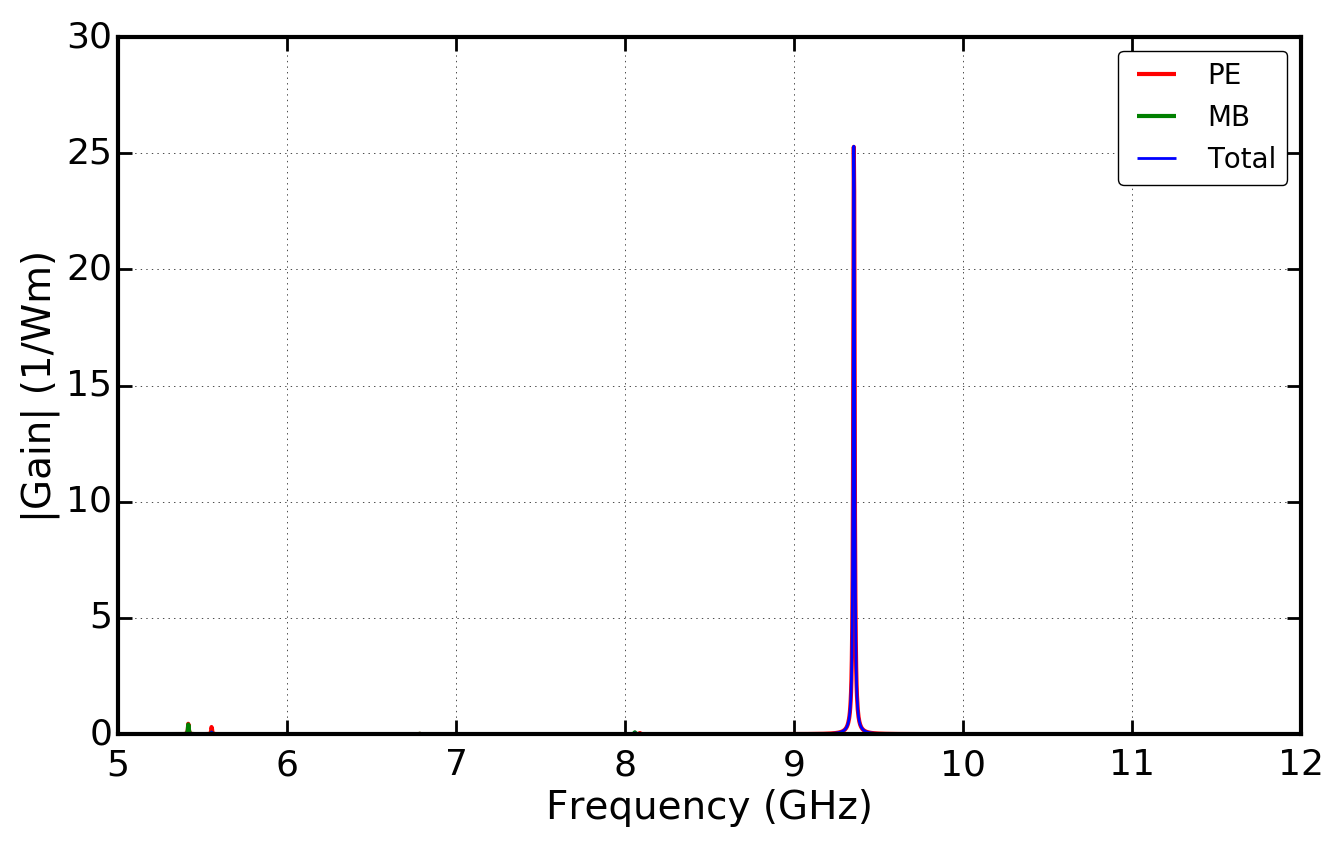
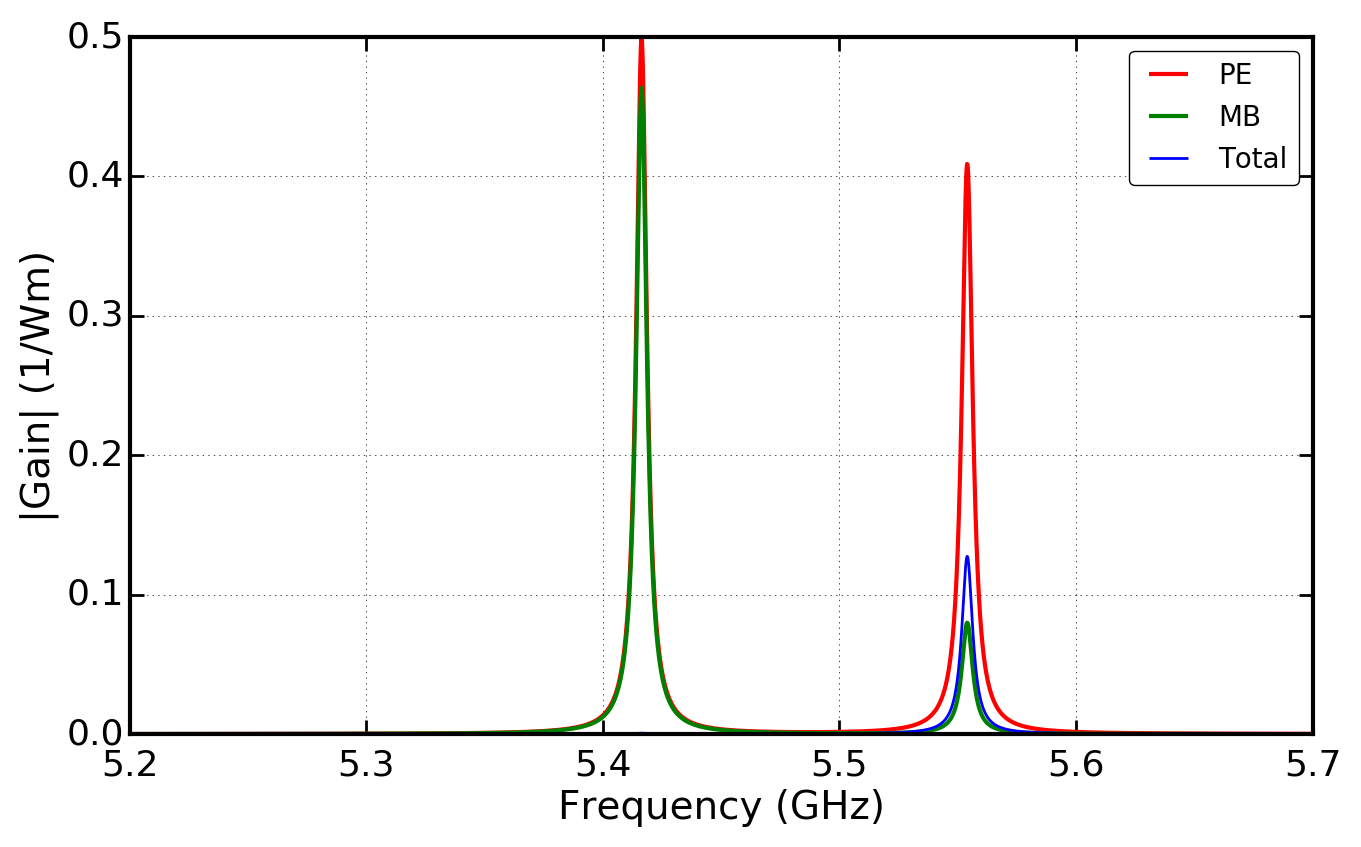
Improving lit examples.

diff --git a/backend/objects.py b/backend/objects.py
@@ -39,7 +39,8 @@ class Struct(object):
 
             inc_shape  (str): Shape of inclusions that have template mesh,
                 currently: 'circular', 'rectangular', 'slot', 'rib'
-                'rib_coated', 'onion'. Rectangular is default.
+                'slot_coated', 'rib_coated', 'pedestal', 'onion'. 
+                Rectangular is default.
 
             slab_a_x  (float): The horizontal diameter in nm of the slab
                 directly below the inclusion.
@@ -117,6 +118,7 @@ class Struct(object):
                  slab_a_x=None, slab_a_y=None, slab_b_x=None, slab_b_y=None,
                  coat_x=None, coat_y=None, inc_b_x=None, inc_b_y=None,
                  two_inc_sep=None, incs_y_offset=None,
+                 pillar_x=None, pillar_y=None,
                  inc_c_x=None, inc_d_x=None, inc_e_x=None, inc_f_x=None,
                  inc_g_x=None, inc_h_x=None, inc_i_x=None, inc_j_x=None,
                  inc_k_x=None, inc_l_x=None, inc_m_x=None, inc_n_x=None,
@@ -158,6 +160,8 @@ class Struct(object):
         self.slab_a_y = slab_a_y
         self.slab_b_x = slab_b_x
         self.slab_b_y = slab_b_y
+        self.pillar_x = pillar_x
+        self.pillar_y = pillar_y
         self.inc_c_x = inc_c_x
         self.inc_d_x = inc_d_x
         self.inc_e_x = inc_e_x
@@ -578,7 +582,7 @@ class Struct(object):
         self.p_tensor = p_tensor
         self.eta_tensor = eta_tensor
 
-        self.linear_element_shapes = ['rectangular', 'slot', 'slot_coated', 'rib', 'rib_coated']
+        self.linear_element_shapes = ['rectangular', 'slot', 'slot_coated', 'rib', 'rib_coated', 'pedestal']
         self.curvilinear_element_shapes = ['circular', 'onion']
 
 
@@ -761,51 +765,6 @@ class Struct(object):
                     geo = geo.replace('lc2 = lc/1;', "lc2 = lc/%f;" % self.lc2)
                     geo = geo.replace('lc3 = lc/1;', "lc3 = lc/%f;" % self.lc3)
 
-        elif self.inc_shape in ['onion']:
-            msh_template = 'onion'
-            self.nb_typ_el = 15
-            msh_name = 'onion_%(d)s_%(dy)s_%(a)s_%(b)s_%(c)s_%(d)s_%(e)s_%(f)s_%(g)s' % {
-            'd': dec_float_str(self.unitcell_x),
-            'dy': dec_float_str(self.unitcell_y),
-            'a': dec_float_str(self.inc_a_x),
-            'b': dec_float_str(self.inc_b_x),
-            'c': dec_float_str(self.inc_c_x),
-            'd': dec_float_str(self.inc_d_x),
-            'e': dec_float_str(self.inc_e_x),
-            'f': dec_float_str(self.inc_f_x),
-            'g': dec_float_str(self.inc_g_x)}
-            msh_name = msh_name + '_%(h)s_%(i)s_%(j)s_%(k)s_%(l)s_%(m)s_%(n)s_%(o)s' % {
-            'h': dec_float_str(self.inc_h_x),
-            'i': dec_float_str(self.inc_i_x),
-            'j': dec_float_str(self.inc_j_x),
-            'k': dec_float_str(self.inc_k_x),
-            'l': dec_float_str(self.inc_l_x),
-            'm': dec_float_str(self.inc_m_x),
-            'n': dec_float_str(self.inc_n_x),
-            'o': dec_float_str(self.inc_o_x)}
-            if not os.path.exists(msh_location + msh_name + '.mail') or self.force_mesh is True:
-                geo_tmp = open(msh_location + '%s_msh_template.geo' % msh_template, "r").read()
-                geo = geo_tmp.replace('d_in_nm = 100;', "d_in_nm = %f;" % self.unitcell_x)
-                geo = geo.replace('dy_in_nm = 50;', "dy_in_nm = %f;" % self.unitcell_y)
-                geo = geo.replace('a1 = 2;', "a1 = %f;" % self.inc_a_x)
-                geo = geo.replace('a2 = 2;', "a2 = %f;" % self.inc_b_x)
-                geo = geo.replace('a3 = 2;', "a3 = %f;" % self.inc_c_x)
-                geo = geo.replace('a4 = 2;', "a4 = %f;" % self.inc_d_x)
-                geo = geo.replace('a5 = 2;', "a5 = %f;" % self.inc_e_x)
-                geo = geo.replace('a6 = 2;', "a6 = %f;" % self.inc_f_x)
-                geo = geo.replace('a7 = 2;', "a7 = %f;" % self.inc_g_x)
-                geo = geo.replace('a8 = 2;', "a8 = %f;" % self.inc_h_x)
-                geo = geo.replace('a9 = 2;', "a9 = %f;" % self.inc_i_x)
-                geo = geo.replace('a10 = 2;', "a10 = %f;" % self.inc_j_x)
-                geo = geo.replace('a11 = 2;', "a11 = %f;" % self.inc_k_x)
-                geo = geo.replace('a12 = 2;', "a12 = %f;" % self.inc_l_x)
-                geo = geo.replace('a13 = 2;', "a13 = %f;" % self.inc_m_x)
-                geo = geo.replace('a14 = 2;', "a14 = %f;" % self.inc_n_x)
-                geo = geo.replace('a15 = 2;', "a15 = %f;" % self.inc_o_x)
-                geo = geo.replace('lc = 0;', "lc = %f;" % self.lc)
-                geo = geo.replace('lc2 = lc/1;', "lc2 = lc/%f;" % self.lc2)
-                geo = geo.replace('lc3 = lc/1;', "lc3 = lc/%f;" % self.lc3)
-
 
         elif self.inc_shape in ['rib']:
                 msh_template = 'rib'
@@ -856,6 +815,78 @@ class Struct(object):
                     geo = geo.replace('lc2 = lc/1;', "lc2 = lc/%f;" % self.lc2)
                     geo = geo.replace('lc3 = lc/1;', "lc3 = lc/%f;" % self.lc3)
 
+
+        elif self.inc_shape in ['pedestal']:
+                msh_template = 'pedestal'
+                self.nb_typ_el = 4
+                msh_name = 'pedestal_%(d)s_%(dy)s_%(a)s_%(b)s_%(cz)s_%(c)s_%(cc)s_%(ccc)s' % {
+                'd': dec_float_str(self.unitcell_x),
+                'dy': dec_float_str(self.unitcell_y),
+                'a': dec_float_str(self.inc_a_x),
+                'b': dec_float_str(self.inc_a_y),
+                'cz': dec_float_str(self.pillar_x),
+                'c': dec_float_str(self.pillar_y),
+                'cc': dec_float_str(self.slab_a_x),
+                'ccc': dec_float_str(self.slab_a_y)}
+                if not os.path.exists(msh_location + msh_name + '.mail') or self.force_mesh is True:
+                    geo_tmp = open(msh_location + '%s_msh_template.geo' % msh_template, "r").read()
+                    geo = geo_tmp.replace('d_in_nm = 100;', "d_in_nm = %f;" % self.unitcell_x)
+                    geo = geo.replace('dy_in_nm = 50;', "dy_in_nm = %f;" % self.unitcell_y)
+                    geo = geo.replace('a1 = 20;', "a1 = %f;" % self.inc_a_x)
+                    geo = geo.replace('a1y = 10;', "a1y = %f;" % self.inc_a_y)
+                    geo = geo.replace('slabx = 80;', "slabx = %f;" % self.slab_a_x)
+                    geo = geo.replace('slaby = 10;', "slaby = %f;" % self.slab_a_y)
+                    geo = geo.replace('px = 2;', "px = %f;" % self.pillar_x)
+                    geo = geo.replace('py = 5;', "py = %f;" % self.pillar_y)
+                    geo = geo.replace('lc = 0;', "lc = %f;" % self.lc)
+                    geo = geo.replace('lc2 = lc/1;', "lc2 = lc/%f;" % self.lc2)
+                    geo = geo.replace('lc3 = lc/1;', "lc3 = lc/%f;" % self.lc3)
+
+
+        elif self.inc_shape in ['onion']:
+            msh_template = 'onion'
+            self.nb_typ_el = 15
+            msh_name = 'onion_%(d)s_%(dy)s_%(a)s_%(b)s_%(c)s_%(d)s_%(e)s_%(f)s_%(g)s' % {
+            'd': dec_float_str(self.unitcell_x),
+            'dy': dec_float_str(self.unitcell_y),
+            'a': dec_float_str(self.inc_a_x),
+            'b': dec_float_str(self.inc_b_x),
+            'c': dec_float_str(self.inc_c_x),
+            'd': dec_float_str(self.inc_d_x),
+            'e': dec_float_str(self.inc_e_x),
+            'f': dec_float_str(self.inc_f_x),
+            'g': dec_float_str(self.inc_g_x)}
+            msh_name = msh_name + '_%(h)s_%(i)s_%(j)s_%(k)s_%(l)s_%(m)s_%(n)s_%(o)s' % {
+            'h': dec_float_str(self.inc_h_x),
+            'i': dec_float_str(self.inc_i_x),
+            'j': dec_float_str(self.inc_j_x),
+            'k': dec_float_str(self.inc_k_x),
+            'l': dec_float_str(self.inc_l_x),
+            'm': dec_float_str(self.inc_m_x),
+            'n': dec_float_str(self.inc_n_x),
+            'o': dec_float_str(self.inc_o_x)}
+            if not os.path.exists(msh_location + msh_name + '.mail') or self.force_mesh is True:
+                geo_tmp = open(msh_location + '%s_msh_template.geo' % msh_template, "r").read()
+                geo = geo_tmp.replace('d_in_nm = 100;', "d_in_nm = %f;" % self.unitcell_x)
+                geo = geo.replace('dy_in_nm = 50;', "dy_in_nm = %f;" % self.unitcell_y)
+                geo = geo.replace('a1 = 2;', "a1 = %f;" % self.inc_a_x)
+                geo = geo.replace('a2 = 2;', "a2 = %f;" % self.inc_b_x)
+                geo = geo.replace('a3 = 2;', "a3 = %f;" % self.inc_c_x)
+                geo = geo.replace('a4 = 2;', "a4 = %f;" % self.inc_d_x)
+                geo = geo.replace('a5 = 2;', "a5 = %f;" % self.inc_e_x)
+                geo = geo.replace('a6 = 2;', "a6 = %f;" % self.inc_f_x)
+                geo = geo.replace('a7 = 2;', "a7 = %f;" % self.inc_g_x)
+                geo = geo.replace('a8 = 2;', "a8 = %f;" % self.inc_h_x)
+                geo = geo.replace('a9 = 2;', "a9 = %f;" % self.inc_i_x)
+                geo = geo.replace('a10 = 2;', "a10 = %f;" % self.inc_j_x)
+                geo = geo.replace('a11 = 2;', "a11 = %f;" % self.inc_k_x)
+                geo = geo.replace('a12 = 2;', "a12 = %f;" % self.inc_l_x)
+                geo = geo.replace('a13 = 2;', "a13 = %f;" % self.inc_m_x)
+                geo = geo.replace('a14 = 2;', "a14 = %f;" % self.inc_n_x)
+                geo = geo.replace('a15 = 2;', "a15 = %f;" % self.inc_o_x)
+                geo = geo.replace('lc = 0;', "lc = %f;" % self.lc)
+                geo = geo.replace('lc2 = lc/1;', "lc2 = lc/%f;" % self.lc2)
+                geo = geo.replace('lc3 = lc/1;', "lc3 = lc/%f;" % self.lc3)
 
         else:
             raise NotImplementedError("\n Selected inc_shape = '%s' \n " \

diff --git a/lit_examples/simo-lit_04-Van_Laer-NatPhot_2015.py b/lit_examples/simo-lit_04-Van_Laer-NatPhot_2015.py
@@ -26,19 +26,19 @@ start = time.time()
 
 # Geometric Parameters - all in nm.
 wl_nm = 1550
-unitcell_x = 2.5*wl_nm
-unitcell_y = unitcell_x
+unitcell_x = 4*wl_nm
+unitcell_y = 0.5*unitcell_x
 inc_a_x = 450
 inc_a_y = 230
 inc_shape = 'pedestal'
-slab_a_x = 15
-slab_a_y = 300
-slab_b_x = unitcell_x-400
-slab_b_y = 800
+pillar_x = 15
+pillar_y = 300
+slab_a_x = 2000
+slab_a_y = 800
 
 num_modes_EM_pump = 20
 num_modes_EM_Stokes = num_modes_EM_pump
-num_modes_AC = 80
+num_modes_AC = 60
 EM_ival_pump = 0
 EM_ival_Stokes = EM_ival_pump
 AC_ival = 'All'
@@ -48,12 +48,12 @@ prefix_str = 'lit_04-'
 # Use all specified parameters to create a waveguide object.
 wguide = objects.Struct(unitcell_x,inc_a_x,unitcell_y,inc_a_y,inc_shape,
                         slab_a_x=slab_a_x, slab_a_y=slab_a_y,
-                        slab_b_x=slab_b_x, slab_b_y=slab_b_y,
+                        pillar_x=pillar_x, pillar_y=pillar_y,
                         material_bkg=materials.Vacuum,            # background
                         material_a=materials.Si_2015_Van_Laer,    # rib
                         material_b=materials.SiO2_2015_Van_Laer,  # slab
                         material_c=materials.SiO2_2015_Van_Laer,  # pillar
-                        lc_bkg=2, lc2=4000.0, lc3=1000.0)
+                        lc_bkg=6, lc2=3000.0, lc3=100.0)
 
 # Expected effective index of fundamental guided mode.
 n_eff = wguide.material_a.n-0.1
@@ -62,9 +62,9 @@ n_eff = wguide.material_a.n-0.1
 sim_EM_pump = wguide.calc_EM_modes(num_modes_EM_pump, wl_nm, n_eff)
 sim_EM_Stokes = mode_calcs.bkwd_Stokes_modes(sim_EM_pump)
 
-# plotting.plt_mode_fields(sim_EM_pump, 
-#                          xlim_min=0.35, xlim_max=0.35, ylim_min=0.1, ylim_max=0.55, 
-#                          EM_AC='EM_E', pdf_png='pdf', prefix_str=prefix_str, suffix_str='slab')
+plotting.plt_mode_fields(sim_EM_pump, ivals=[0],
+                         xlim_min=0.3, xlim_max=0.3, ylim_min=0.3, ylim_max=0.3, 
+                         EM_AC='EM_E', pdf_png='png', prefix_str=prefix_str)
 
 # Print the wavevectors of EM modes.
 print('k_z of EM modes \n', np.round(np.real(sim_EM_pump.Eig_values), 4))
@@ -73,13 +73,27 @@ print('k_z of EM modes \n', np.round(np.real(sim_EM_pump.Eig_values), 4))
 n_eff_sim = np.real(sim_EM_pump.Eig_values[0]*((wl_nm*1e-9)/(2.*np.pi)))
 
 k_AC = 5
-
 shift_Hz = 8e9
 
 # Calculate Acoustic Modes
 sim_AC = wguide.calc_AC_modes(num_modes_AC, k_AC, EM_sim=sim_EM_pump, shift_Hz=shift_Hz)
 
-plotting.plt_mode_fields(sim_AC, EM_AC='AC', prefix_str=prefix_str, suffix_str='slab', pdf_png='png')
+plotting.plt_mode_fields(sim_AC, EM_AC='AC', prefix_str=prefix_str, pdf_png='png')
+
+set_q_factor = 306
+
+# Calculate interaction integrals and SBS gain for PE and MB effects combined, 
+# as well as just for PE, and just for MB.
+SBS_gain, SBS_gain_PE, SBS_gain_MB, linewidth_Hz, Q_factors, alpha = integration.gain_and_qs(
+    sim_EM_pump, sim_EM_Stokes, sim_AC, k_AC,
+    EM_ival_pump=EM_ival_pump, EM_ival_Stokes=EM_ival_Stokes, AC_ival=AC_ival, fixed_Q=set_q_factor)
+
+# Construct the SBS gain spectrum, built from Lorentzian peaks of the individual modes.
+freq_min = np.real(sim_AC.Eig_values[0])*1e-9 - 2  # GHz
+freq_max = np.real(sim_AC.Eig_values[-1])*1e-9 + 2  # GHz
+plotting.gain_spectra(sim_AC, SBS_gain, SBS_gain_PE, SBS_gain_MB, linewidth_Hz, k_AC,
+    EM_ival_pump, EM_ival_Stokes, AC_ival, freq_min=freq_min, freq_max=freq_max,
+    prefix_str=prefix_str)
 
 end = time.time()
 print("\n Simulation time (sec.)", (end - start))

diff --git a/lit_examples/simo-lit_06_2-Florez-NatComm_2016-d1160nm.py b/lit_examples/simo-lit_06_2-Florez-NatComm_2016-d1160nm.py
@@ -96,7 +96,7 @@ freq_min = 5.2  # GHz
 freq_max = 5.7  # GHz
 plotting.gain_spectra(sim_AC, SBS_gain, SBS_gain_PE, SBS_gain_MB, linewidth_Hz, k_AC,
     EM_ival_pump, EM_ival_Stokes, AC_ival, freq_min=freq_min, freq_max=freq_max,
-    prefix_str=prefix_str, suffix_str='_zoom')
+    semilogy=True, prefix_str=prefix_str)
 
 end = time.time()
 print("\n Simulation time (sec.)", (end - start))

diff --git a/lit_examples/simo-lit_05-Van_Laer-NJP_2015.py b/lit_examples/simo-lit_05-Van_Laer-NJP_2015.py
@@ -28,7 +28,7 @@ start = time.time()
 # Geometric Parameters - all in nm.
 wl_nm = 1550
 unitcell_x = 5*wl_nm
-unitcell_y = unitcell_x
+unitcell_y = 0.5*unitcell_x
 inc_a_x = 450
 inc_a_y = 230
 inc_shape = 'rectangular'

diff --git a/tutorials/simo-tut_08-slot_coated-scan.py b/tutorials/simo-tut_08-slot_coated-scan.py
@@ -27,7 +27,7 @@ start = time.time()
 # Geometric Parameters - all in nm.
 wl_nm = 1550
 unitcell_x = 4*wl_nm
-unitcell_y = unitcell_x
+unitcell_y = 0.3*unitcell_x
 inc_shape = 'slot_coated'
 inc_a_x = 150
 inc_a_y = 190

diff --git a/tutorials/simo-tut_07-slot.py b/tutorials/simo-tut_07-slot.py
@@ -24,7 +24,7 @@ start = time.time()
 # Geometric Parameters - all in nm.
 wl_nm = 1550
 unitcell_x = 4*wl_nm
-unitcell_y = unitcell_x
+unitcell_y = 0.3*unitcell_x
 inc_shape = 'slot'
 inc_a_x = 150
 inc_a_y = 190

diff --git a/docs/source/tutorial.rst b/docs/source/tutorial.rst
@@ -468,13 +468,13 @@ We note the particular importance of examples 5-8 for they include experimental 
 .. figure:: ../../lit_examples/lit_06_2-gain_spectra-MB_PE_comps.png
    :scale: 50 %
    
-   Gain spectra of NW diameter 1160 nm, as in Fig. 4 of paper, showing near perfect cancellation at 5.4 GHz.
+   Gain spectra of NW diameter 1160 nm, as in Fig. 4 of paper, showing perfect cancellation at 5.4 GHz.
 
 
-.. figure:: ../../lit_examples/lit_06_2-gain_spectra-MB_PE_comps_zoom.png
+.. figure:: ../../lit_examples/lit_06_2-gain_spectra-MB_PE_comps-logy.png
    :scale: 50 %
    
-   Gain spectra of NW diameter 1160 nm, as in Fig. 4 of paper, showing near perfect cancellation at 5.4 GHz.
+   Gain spectra of NW diameter 1160 nm, as in Fig. 4 of paper, showing perfect cancellation at 5.4 GHz.
 
 
 
